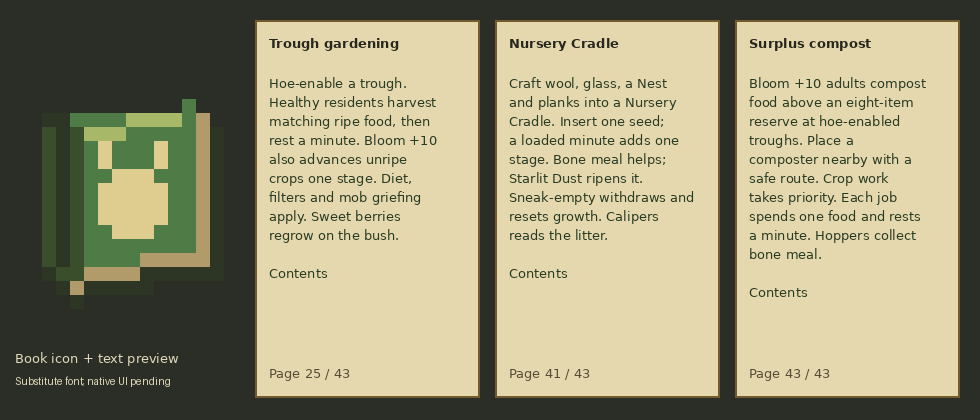
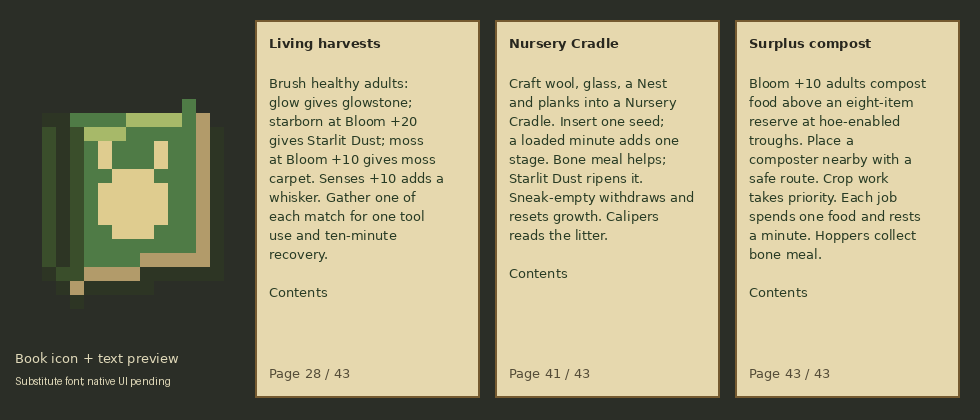
Gather living moss and compost ordinary guava orchard materials

Changed region(s): [[0.2755, 0.1857, 0.4592, 0.7119], [0.2755, 0.0929, 0.4286, 0.1238]]

diff --git a/tools/gametest/java/com/bunnidogs/mod/entity/GroomingGameTest.java b/tools/gametest/java/com/bunnidogs/mod/entity/GroomingGameTest.java
@@ -76,6 +76,7 @@ public final class GroomingGameTest {
         h.assertTrue(whiskers(creative) == 1 && creativeBrush.getDamageValue() == 0 && dog.groomingWait() == Grooming.RECOVERY_TICKS,
                 "Creative must preserve the brush but keep animal recovery");
         dust(h);
+        moss(h);
     }
     private static void dust(GameTestHelper h) {
         var level = h.getLevel();
@@ -128,5 +129,35 @@ public final class GroomingGameTest {
         h.assertTrue(fullBrush.getDamageValue() == 1 && mixed.groomingWait() == Grooming.RECOVERY_TICKS
                 && mixed.getHealth() == health && mixed.genome().equals(mixedGenome) && mixed.stats().equals(Stats.of(0,0,0,10,20)),
                 "Combined products must share one wear/recovery and preserve the living line");
+    }
+    private static void moss(GameTestHelper h) {
+        var level = h.getLevel();
+        int moss = Gene.COAT.alleleNamed("moss").id(), starborn = Gene.FERTILITY.alleleNamed("starborn").id();
+        var dog = h.spawnWithNoFreeWill(ModEntities.BUNNIDOG.get(),2,1,2); dog.setAge(0);
+        dog.setGenome(Genome.DEFAULT.with(Gene.COAT,0,Gene.COAT.alleleNamed("void").id()).with(Gene.COAT,1,moss));
+        dog.setStats(Stats.of(0,0,0,0,10)); dog.setHealth(dog.getMaxHealth());
+        var player = h.makeMockPlayer(GameType.SURVIVAL); var brush = new ItemStack(Items.BRUSH);
+        player.setItemInHand(InteractionHand.MAIN_HAND,brush);
+        player.interactOn(dog,InteractionHand.MAIN_HAND,Vec3.ZERO);
+        h.assertTrue(count(player,Items.MOSS_CARPET) == 0 && dog.groomingWait() == 0 && brush.getDamageValue() == 0,
+                "A hidden moss coat must yield no loose growth or spend recovery");
+        var mossGenome = Genome.DEFAULT.with(Gene.COAT,0,moss).with(Gene.COAT,1,moss);
+        dog.setGenome(mossGenome); dog.setStats(Stats.of(0,0,0,0,9));
+        player.interactOn(dog,InteractionHand.MAIN_HAND,Vec3.ZERO);
+        h.assertTrue(count(player,Items.MOSS_CARPET) == 0 && dog.groomingWait() == 0,"Moss growth needs at least +10 bred Bloom");
+        dog.setStats(Stats.of(0,0,0,0,10)); player.interactOn(dog,InteractionHand.MAIN_HAND,Vec3.ZERO);
+        h.assertTrue(count(player,Items.MOSS_CARPET) == 1 && whiskers(player) == 0 && brush.getDamageValue() == 1
+                && dog.groomingWait() == Grooming.RECOVERY_TICKS,"Bloom +10 must yield one moss carpet for one wear and the shared ten-minute recovery");
+        dog.setGenome(mossGenome.with(Gene.FERTILITY,0,starborn).with(Gene.FERTILITY,1,starborn)); dog.setStats(Stats.of(0,0,0,10,20));
+        player.interactOn(dog,InteractionHand.MAIN_HAND,Vec3.ZERO);
+        h.assertTrue(count(player,Items.MOSS_CARPET) == 1 && whiskers(player) == 0 && count(player,ModItems.STARLIT_DUST.get()) == 0
+                && brush.getDamageValue() == 1,"Changing genes or qualifying for new products must never bypass existing moss recovery");
+        var mixed = h.spawnWithNoFreeWill(ModEntities.BUNNIDOG.get(),2,1,4); mixed.setAge(0);
+        mixed.setGenome(dog.genome()); mixed.setStats(dog.stats()); mixed.setHealth(mixed.getMaxHealth()); float health = mixed.getHealth();
+        player.interactOn(mixed,InteractionHand.MAIN_HAND,Vec3.ZERO);
+        h.assertTrue(count(player,Items.MOSS_CARPET) == 2 && whiskers(player) == 1 && count(player,ModItems.STARLIT_DUST.get()) == 1
+                && brush.getDamageValue() == 2 && mixed.groomingWait() == Grooming.RECOVERY_TICKS
+                && mixed.getHealth() == health && mixed.genome().equals(dog.genome()) && mixed.stats().equals(dog.stats()),
+                "Moss, whisker and Starlit products must combine for one wear/recovery without altering the living line");
     }
 }

diff --git a/tools/gametest/java/com/bunnidogs/mod/entity/CompostingGameTest.java b/tools/gametest/java/com/bunnidogs/mod/entity/CompostingGameTest.java
@@ -9,6 +9,7 @@ import com.bunnidogs.mod.genetics.Genome;
 import com.bunnidogs.mod.genetics.Stats;
 import com.bunnidogs.mod.registry.ModBlocks;
 import com.bunnidogs.mod.registry.ModEntities;
+import com.bunnidogs.mod.registry.ModItems;
 import net.minecraft.core.BlockPos;
 import net.minecraft.core.component.DataComponents;
 import net.minecraft.gametest.framework.GameTestHelper;
@@ -122,6 +123,22 @@ public final class CompostingGameTest {
                 h.assertTrue(output.getItem(0).is(Items.BONE_MEAL) && output.getItem(0).getCount() == 1
                         && level.getBlockState(composter).getValue(ComposterBlock.LEVEL) == 0 && stock.food().getCount() == 8,
                         "An actual native hopper must collect one bone meal and empty compost without touching the food reserve");
+                h.assertTrue(Math.abs(ComposterBlock.getValue(new ItemStack(ModItems.GUAVA.get()))-.65F) < .0001F
+                        && Math.abs(ComposterBlock.getValue(new ItemStack(ModItems.GUAVA_LEAVES.get()))-.3F) < .0001F
+                        && Math.abs(ComposterBlock.getValue(new ItemStack(ModItems.GUAVA_SAPLING.get()))-.3F) < .0001F,
+                        "The actual native data map must register ordinary guava fruit and foliage compost values");
+                h.assertTrue(ModItems.GUAVAS.stream().skip(1).allMatch(tier -> ComposterBlock.getValue(new ItemStack(tier.get())) <= 0),
+                        "Quality-infused guavas must stay outside automatic composting");
+                long before = level.clockManager().getTotalTicks(clock);
+                boolean rule = level.getGameRules().get(GameRules.MOB_GRIEFING);
+                try {
+                    level.clockManager().setTotalTicks(clock,1000); level.getGameRules().set(GameRules.MOB_GRIEFING,true,level.getServer());
+                    ready(dog); dog.setGenome(Genome.DEFAULT); stock.takeAll(); stock.clearFilter(); stock.insert(new ItemStack(ModItems.GUAVA.get(),9));
+                    work(h,dog);
+                    h.assertTrue(stock.food().is(ModItems.GUAVA.get()) && stock.food().getCount() == 8
+                            && level.getBlockState(composter).getValue(ComposterBlock.LEVEL) == 1 && dog.gardeningWait() == Gardening.REST_TICKS,
+                            "A plain high-Bloom resident must compost its actual surplus guavas through the same native work path");
+                } finally { level.clockManager().setTotalTicks(clock,before); level.getGameRules().set(GameRules.MOB_GRIEFING,rule,level.getServer()); }
                 h.succeed();
             });
         });

diff --git a/tools/gametest/java/com/bunnidogs/mod/entity/CareDispenserGameTest.java b/tools/gametest/java/com/bunnidogs/mod/entity/CareDispenserGameTest.java
@@ -9,6 +9,7 @@ import com.bunnidogs.mod.registry.ModItems;
 import net.minecraft.core.BlockPos;
 import net.minecraft.core.Direction;
 import net.minecraft.gametest.framework.GameTestHelper;
+import net.minecraft.util.ProblemReporter;
 import net.minecraft.world.entity.EntityTypes;
 import net.minecraft.world.entity.item.ItemEntity;
 import net.minecraft.world.item.Item;
@@ -18,6 +19,8 @@ import net.minecraft.world.level.block.Blocks;
 import net.minecraft.world.level.block.DispenserBlock;
 import net.minecraft.world.level.block.entity.DispenserBlockEntity;
 import net.minecraft.world.phys.AABB;
+import net.minecraft.world.level.storage.TagValueInput;
+import net.minecraft.world.level.storage.TagValueOutput;
 
 public final class CareDispenserGameTest {
     private CareDispenserGameTest() {}
@@ -79,7 +82,18 @@ public final class CareDispenserGameTest {
                     pulse(h,pos,() -> {
                         h.assertTrue(dropped(h,pos,Items.ARMADILLO_SCUTE) == 1 && nativeBrush.getDamageValue() == 16,
                                 "The original native armadillo brushing behavior and its tool cost must still work");
-                        h.succeed();
+                        var saved = TagValueOutput.createWithContext(ProblemReporter.DISCARDING,level.registryAccess()); dog.saveWithoutId(saved);
+                        var data = saved.buildResult(); data.remove("GroomWait"); dog.load(TagValueInput.create(ProblemReporter.DISCARDING,level.registryAccess(),data));
+                        int moss = Gene.COAT.alleleNamed("moss").id();
+                        dog.setGenome(dog.genome().with(Gene.COAT,0,moss).with(Gene.COAT,1,moss)); dog.setAge(0); dog.setHealth(dog.getMaxHealth());
+                        var mossBrush = new ItemStack(Items.BRUSH); dispenser.setItem(0,mossBrush);
+                        pulse(h,pos,() -> {
+                            h.assertTrue(dropped(h,pos,Items.MOSS_CARPET) == 1 && dropped(h,pos,ModItems.WHISKER.get()) == 2
+                                    && dropped(h,pos,ModItems.STARLIT_DUST.get()) == 2 && dropped(h,pos,Items.GLOWSTONE_DUST) == 1
+                                    && mossBrush.getDamageValue() == 1 && dog.groomingWait() > 0,
+                                    "One native dispenser pulse must gather the moss/whisker/Starlit combination for one wear and shared recovery");
+                            h.succeed();
+                        });
                     });
                 });
             });

diff --git a/art/gen_guide.py b/art/gen_guide.py
@@ -31,7 +31,7 @@ PAGES = {
     25: ('Trough gardening', 'Hoe-enable a trough. Healthy residents harvest matching ripe food, then rest a minute. Bloom +10 also advances unripe crops one stage. Diet, filters and mob griefing apply. Sweet berries regrow on the bush.'),
     26: ('Furnished warrens', 'New dens have a trough with two guavas. Levels 3-5 have a central bell. New farms fit an empty enabled corner trough for matching crops. Crafted and old troughs need a hoe to enable work.'),
     27: ('Before the Apex', 'Hold Calipers in the main hand and a Tissue Sample in the other. Use an Apex Crucible for health, attacks and defenses. Empty-hand use lists missing offerings. Reading spends nothing.'),
-    28: ('Living dust', 'Brush a healthy glow adult for one glowstone dust. A starborn adult with Bloom +20 yields one Starlit Dust. Senses +10 still adds a whisker. One Brush use gathers all matches; recovery is ten minutes.'),
+    28: ('Living harvests', 'Brush healthy adults: glow gives glowstone; starborn at Bloom +20 gives Starlit Dust; moss at Bloom +10 gives moss carpet. Senses +10 adds a whisker. Gather one of each match for one tool use and ten-minute recovery.'),
     29: ('Terrain traits', 'Hoofed adults step up one-block ledges and take half fall damage. Fleet legs reduce soul-sand and honey slowing by 25%; lean builds by 50%. Together: 75%. Cobwebs, Slowness and other hazards remain.'),
     30: ('Shore fishing', 'Hurt fisher adults hunt nearby cod, salmon or tropical fish. They need a Nest, daylight and a reachable fish. A kill heals 4 HP, then rests 30 seconds. Pufferfish and land prey are excluded.'),
     31: ('Resident needs', 'Sneak-use Calipers for a claimed Nest, distance, foods and meal recovery. Healthy adults need no healing. Ready means ready to search, not a promise of nearby food. Reading changes nothing.'),
@@ -98,7 +98,7 @@ def main():
         bold = ImageFont.truetype('DejaVuSans-Bold.ttf',13)
     except OSError:
         font = bold = ImageFont.load_default()
-    for x,page in [(255,25),(495,41),(735,43)]:
+    for x,page in [(255,28),(495,41),(735,43)]:
         d.rectangle((x,20,x+224,397),fill=(230,216,174),outline=(117,90,48),width=2)
         title = 'Bunnidogs Guide' if page == 1 else 'More chapters' if page == 40 else PAGES[page][0]
         d.text((x+14,35),title,font=bold,fill=(40,39,30))

diff --git a/src/main/java/com/bunnidogs/mod/genetics/Grooming.java b/src/main/java/com/bunnidogs/mod/genetics/Grooming.java
@@ -8,10 +8,11 @@ public final class Grooming {
     private Grooming() {}
     public static final int MIN_SENSES = 10;
     public static final int MIN_STARLIT_BLOOM = 20;
+    public static final int MIN_MOSS_BLOOM = 10;
     public static final int COUNT = 1;
     public static final int RECOVERY_TICKS = 10 * 60 * 20;
     public enum Yield {
-        WHISKER("item.bunnidogs.whisker"), GLOWSTONE("item.minecraft.glowstone_dust"), STARLIT("item.bunnidogs.starlit_dust");
+        WHISKER("item.bunnidogs.whisker"), GLOWSTONE("item.minecraft.glowstone_dust"), STARLIT("item.bunnidogs.starlit_dust"), MOSS("block.minecraft.moss_carpet");
         private final String translationKey;
         Yield(String translationKey) { this.translationKey = translationKey; }
         public String translationKey() { return this.translationKey; }
@@ -22,6 +23,7 @@ public final class Grooming {
         if (developed(stats)) out.add(Yield.WHISKER);
         if (genome.expressed(Gene.COAT).name().equals("glow")) out.add(Yield.GLOWSTONE);
         if (genome.expressed(Gene.FERTILITY).name().equals("starborn") && stats.get(Stat.BLOOM) >= MIN_STARLIT_BLOOM) out.add(Yield.STARLIT);
+        if (genome.expressed(Gene.COAT).name().equals("moss") && stats.get(Stat.BLOOM) >= MIN_MOSS_BLOOM) out.add(Yield.MOSS);
         return List.copyOf(out);
     }
 }

diff --git a/src/main/java/com/bunnidogs/mod/item/CalipersItem.java b/src/main/java/com/bunnidogs/mod/item/CalipersItem.java
@@ -91,7 +91,7 @@ public class CalipersItem extends Item {
                         product -> Component.translatable("message.bunnidogs.care.fleece_product",product.getCount(),product.getHoverName()))));
         var products = Grooming.yields(dog.genome(),dog.stats());
         careRow(player, "grooming", dog.isBaby() ? adult
-                : products.isEmpty() ? Component.translatable("message.bunnidogs.groom.traits",Grooming.MIN_SENSES,Grooming.MIN_STARLIT_BLOOM)
+                : products.isEmpty() ? Component.translatable("message.bunnidogs.groom.traits",Grooming.MIN_SENSES,Grooming.MIN_STARLIT_BLOOM,Grooming.MIN_MOSS_BLOOM)
                 : !healthy ? health : dog.groomingWait() > 0 ? recovery(dog.groomingWait())
                 : Component.translatable("message.bunnidogs.care.groom_ready",
                         ComponentUtils.formatList(products,p -> Component.translatable(p.translationKey()))));

diff --git a/src/main/java/com/bunnidogs/mod/entity/BunnidogGrooming.java b/src/main/java/com/bunnidogs/mod/entity/BunnidogGrooming.java
@@ -17,7 +17,7 @@ final class BunnidogGrooming {
         if (!dog.acceptsCare() || !dog.isAlive() || dog.isBaby() || !Sampling.healthy(dog.getHealth(), dog.getMaxHealth())) return message(player, "health");
         var products = Grooming.yields(dog.genome(),dog.stats());
         if (products.isEmpty()) {
-            player.sendOverlayMessage(Component.translatable("message.bunnidogs.groom.traits",Grooming.MIN_SENSES,Grooming.MIN_STARLIT_BLOOM));
+            player.sendOverlayMessage(Component.translatable("message.bunnidogs.groom.traits",Grooming.MIN_SENSES,Grooming.MIN_STARLIT_BLOOM,Grooming.MIN_MOSS_BLOOM));
             return InteractionResult.SUCCESS;
         }
         if (dog.groomingWait() > 0) {

diff --git a/src/main/java/com/bunnidogs/mod/genetics/Plain.java b/src/main/java/com/bunnidogs/mod/genetics/Plain.java
@@ -154,7 +154,7 @@ public final class Plain {
         note(Gene.COAT, "spotted", "Spotted: a coat of dark patches.");
         note(Gene.COAT, "snow", "A white tundra coat.");
         note(Gene.COAT, "sand", "A sandy desert coat.");
-        note(Gene.COAT, "moss", "A mossy swamp coat.");
+        note(Gene.COAT, "moss", "A mossy swamp coat. Brush healthy adults with Bloom +10 for one loose moss carpet every ten minutes.");
         note(Gene.COAT, "pale", "A pale cave coat.");
         note(Gene.COAT, "slate", "A grey mountain coat.");
         note(Gene.COAT, "ember", "A glowing-red Nether coat.");

diff --git a/src/main/java/com/bunnidogs/mod/entity/BunnidogCare.java b/src/main/java/com/bunnidogs/mod/entity/BunnidogCare.java
@@ -34,6 +34,7 @@ public final class BunnidogCare {
             case WHISKER -> ModItems.WHISKER.get();
             case GLOWSTONE -> Items.GLOWSTONE_DUST;
             case STARLIT -> ModItems.STARLIT_DUST.get();
+            case MOSS -> Items.MOSS_CARPET;
         },Grooming.COUNT)).toList();
         dog.beginGroomingRecovery();
         dog.playSound(SoundEvents.BRUSH_GENERIC,.4F,1.1F);

diff --git a/START_HERE.md b/START_HERE.md
@@ -22,6 +22,13 @@ checkpoints/compaction and reserve only the capacity needed to deliver safely.
 
 ## Latest gameplay work — 2026-10-17
 
+- **C9/L15, living materials and orchard recycling:** brushing an expressed
+  moss adult at Bloom +10 yields one Moss Carpet alongside any qualified
+  whisker/Starlit products, sharing one wear and saved recovery. Native
+  compost data adds plain guavas at 65% and leaves/saplings at 30%; higher-tier
+  guavas remain excluded. Plain Bloom gardeners can recycle orchard surplus.
+  See `docs/CARE_SPECS.md` C9 and `docs/SETTLEMENT_LIFE.md` L15.
+
 - **L14, surplus composting:** Bloom +10 residents work a vanilla composter
   beside a hoe-enabled trough after harvesting/cultivation. One real suitable
   food per job, native chances, eight-item reserve and shared saved garden
@@ -99,10 +106,10 @@ lineage food tables and shares the guide pool. See `docs/FIELD_GUIDE.md`.
 | Laboratory | Two sample slots, vial display, pup/copy odds and both-direction splice plans. `docs/TABLE_SPECS.md` T1–T6 |
 | Gene Splicer | One donor expressed copy, chosen gene, sample/Mutagen/tool cost, recipient recovery; breeding fixes pairs. `docs/SPLICER_SPECS.md` |
 | Registry and shows | Distinct stable bred lines, linked snapshots, balanced-stat bronze/silver/gold judging, per-animal awards, ribbons and Champion Line. `docs/REGISTRY_SPECS.md`, `docs/SHOW_SPECS.md` |
-| Care | Live samples, fleece palettes, whiskers/dust, dispenser care, saved recoveries and sneak-Calipers home/food/care/work status. `docs/CARE_SPECS.md` C1–C8 |
+| Care | Live samples, fleece palettes, whiskers/dust/moss, dispenser care, saved recoveries and sneak-Calipers home/food/care/work status. `docs/CARE_SPECS.md` C1–C9 |
 | Adaptations | Expressed fire/cold/fall/Poison/cactus/Levitation benefits, slate armor, heavy-build knockback resistance, self-lit glow and terrain movement. `docs/CARE_SPECS.md` A1–A4 |
 | Homes/travel | Claimable Nests, day tether/night return, floor Nests, native leads/rides, led-adult reassignment, Travel Baskets and persistent compass place markers. `docs/HOME_SPECS.md` H1–H7 |
-| Settlement life | Saved trough stock/automation/filters, diet healing/short night meals, bell visits, fitted furniture, harvest/cultivation/surplus composting, local stores, refuge and storm shelter. `docs/SETTLEMENT_LIFE.md` L1–L14 |
+| Settlement life | Saved trough stock/automation/filters, diet healing/short night meals, bell visits, fitted furniture, harvest/cultivation/surplus composting, guava compost data, local stores, refuge and storm shelter. `docs/SETTLEMENT_LIFE.md` L1–L15 |
 | Warrens | Fitted dens/mouths/tunnels/cellars, landmark rooms, grand-tree hall/loop/lower commons, cave/Nether/End entrances and saved labels. `docs/WARREN_PLAN.md` U1–U8 |
 | Wood and travel | Guava building/redstone set, doors/shutters/lamps, four sign forms, native boats/chest boats with custom assets and drops. `docs/FIXES_PLAN.md` 4–5 |
 | Drops and endgame | Pelts/materials, Mutagen/Marrow/Tissue/Dust, five stat legends and pedestals. Sample-defined Apex ritual, inherited combat, warned attacks/enrage, boss bar and source-line crest. `docs/DROPS_SPECS.md`, `docs/APEX_SPECS.md` |
@@ -179,6 +186,11 @@ cases plus native sanity). Latest coverage:
   exact named reserve/filter, shared work rest, non-compostable refusal,
   deterministic native failed/successful chances, actual maturation and hopper
   output of exactly one bone meal.
+- **C9/L15:** actual hidden/expressed moss and Bloom +9/+10 hand care,
+  combined moss/whisker/Starlit products, gene-change recovery refusal and
+  real dispenser collection. Native compost data loads correct values,
+  excludes all seven higher guava tiers and lets a plain resident spend one
+  surplus guava while keeping its eight-item reserve.
 - **S9/H6:** exact carried records through air/block/off-hand/creative use,
   duplicate protection, registry award, invalid UUID/pup refusal and unchanged
   payload. Basket release still preserves all six paused timers, identity,

diff --git a/docs/API_NOTES.md b/docs/API_NOTES.md
@@ -28,6 +28,7 @@ Status words: **COMPILED** = the user's compile accepted it (names and types are
 ### Lookup table (need -> what works in this project -> status -> exact place)
 | Need | What works | Status | Where it was verified |
 |---|---|---|---|
+| Living moss/guava compost C9/L15 | Append the moss product to pure Grooming.yields and map it in shared BunnidogCare; ordinary hand/dispenser paths retain one wear and saved GroomWait. NeoForge item data maps live at data/neoforge/data_maps/item/compostables.json with replace:false and values of chance. Register only plain guava/leaves/sapling, leaving higher tiers absent. | Actual build/all 37 native cases; expressed/Bloom/combined/recovery/native dispenser and loaded compost-data/plain-resident cases | Grooming, BunnidogCare, GroomingGameTest, CareDispenserGameTest, CompostingGameTest |
 | Resident composting L14 | ComposterBlock.getValue(ItemStack) reads the native NeoForge COMPOSTABLES data map; the old static COMPOSTABLES map is deprecated. Public insertItem(Entity,BlockState,ServerLevel,ItemStack,BlockPos) spends one item even when the native chance fails and schedules level-7 maturation. Reserve an exact source item before callbacks, recheck the target and return an unused remainder. Native hopper/container output empties level 8 for one bone meal. | Actual build/all 37 native cases, exact reserve/cost/protection/priority/chance/maturation/hopper output | GardenGoal, Gardening, FeedingTroughBlockEntity, CompostingGameTest |
 | Crop harvest N4 | ServerPlayerGameMode.destroyBlock fires all BreakBlockEvent handlers and checks player restrictions before calling BlockState.onDestroyedByPlayer. Override the block's seven-argument extension (includes original tool/FluidState) to reserve seed and commit removal there. LevelChunk calls BE.preRemoveSideEffects for ordinary block replacement, but skips explicit no-side-effects flags; use it for environmental seed recovery. Native Block.popResource respects block-drop rules. addFreshEntity returns actual acceptance; rollback the prepared litter on refusal. | Actual build/all 36 native cases, late cancellation/permissions/survival/creative/crowd/water/partial-spawn refusal | SeedCropBlock, SeedCropHarvest, SeedCropBlockEntity, Bunnidog.hatch, CropHarvestGameTest |
 | Nursery Cradle N3 | Block implements EntityBlock/BonemealableBlock with a server-only native ticker; horizontal property is EnumProperty<Direction>, not DirectionProperty. Save one whole ItemStack, age and remaining ticks; ItemStackResourceHandler resets growth only on root commit. BlockEntity.setChanged notifies comparators, while Level.blockEntityChanged marks timer saves without per-tick comparator work. Rising neighbor power schedules one hatch tick. Reserve stock before native EntityJoinLevelEvent hooks; prepare/check the full litter and roll back accepted siblings on refusal. | Actual build/all 35 native cases; real transfers/ticker/comparator/pulses/hand controls/pad/crowding/reentrant spawn-cancel rollback | NurseryCradleBlock/Entity, NurseryHatching, CradleStorageGameTest, CradleHatchingGameTest, CradleSpawnRefusalGameTest |

diff --git a/docs/CARE_SPECS.md b/docs/CARE_SPECS.md
@@ -192,6 +192,31 @@ lighting before its path assertions; route requirements remain intact. The
 updated guide preview is inspected. Client stations and multiplayer automation
 balance remain gameplay review.
 
+## C9: loose moss from a living coat
+
+Healthy adults expressing COAT `moss` with at least **+10 bred Bloom** yield
+one ordinary **Moss Carpet** when brushed. This gathers loose coat growth;
+the approved creature model and atlas remain intact. Hidden moss copies and
+lower Bloom yield none. No climate scan, terrain change or new item is needed.
+
+The product joins existing whiskers/dust in the same grooming transaction:
+one of each matching product, one Brush wear and the same ten-minute saved
+`GroomWait`. A moss/starborn line with Bloom +20 and Senses +10 consequently
+yields moss carpet, Starlit Dust and a whisker together. Switching genes/tools
+cannot bypass recovery. Existing adulthood/half-health/Apex, creative and
+inventory-overflow rules apply equally to hand use and dispensers. Calipers,
+gene hovers and the living-harvest guide page explain the source. Death drops,
+inheritance, stats, protocol and saved formats remain unchanged.
+
+C9 evidence (2026-10-17): actual Java 25 build/all 37 native scenarios pass.
+The existing grooming case covers a moss copy hidden by expressed void,
+Bloom +9/+10, one real hand harvest, gene-change recovery refusal, and combined
+moss/whisker/Starlit yield for one wear with preserved health/genome/stats.
+The real dispenser case also collects that combination without extra wear or
+glow dust; original armadillo fallback and exact sampling remain passing.
+The living-harvest guide preview is inspected. Long-term husbandry balance
+and client use remain gameplay review.
+
 ## A1/A2: Expressed environmental adaptations
 
 | Expressed trait | Benefit |
